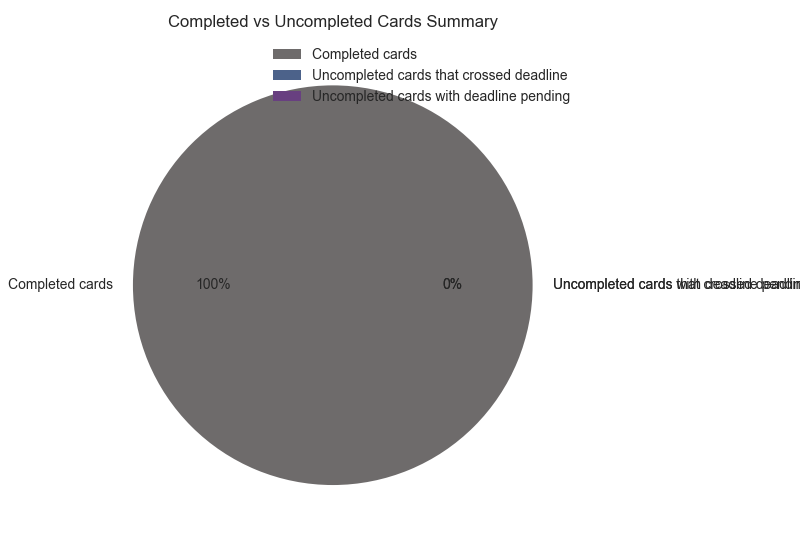
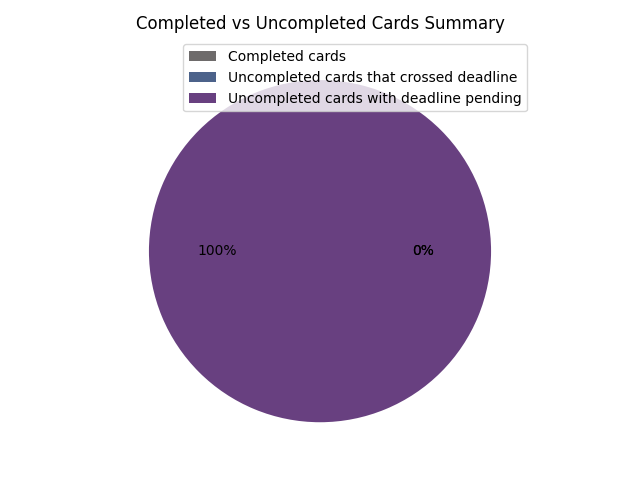
fix add list and add card bugs

diff --git a/templates/summary.html b/templates/summary.html
@@ -37,9 +37,11 @@
                 <img src="../static/images/summary_completed.png" alt="" class="img-thumbnail"  width="100%" height="100%">
             </div>
         </div>
+        {% if dates %}
         <div class="my-3 border" style="width: 60%; height:50%">
             <img src="../static/images/summary_plot.png" alt="" class="img-thumbnail"  width="100%" height="100%">
         </div>
+        {% endif %}
     </div>
 </div>
 

diff --git a/application/controllers.py b/application/controllers.py
@@ -41,7 +41,7 @@ def plot_graph(dates,count):
 
 def plot_piechart_completed(slices,labels):
     colors = ['#6E6B6B','#4C628A','#684080'] # use hex values
-    plt.pie(slices,labels=labels,colors=colors,autopct=lambda p: '{:.0f}%'.format(p))  
+    plt.pie(slices,labels=labels,colors=colors,autopct=lambda p: '{:.0f}%'.format(p),labeldistance=None)  
     # 
     plt.title('Completed Cards Summary')
     plt.legend(loc='best')
@@ -51,15 +51,12 @@ def plot_piechart_completed(slices,labels):
     
 def plot_piechart_completed_uncompleted(slices,labels):
     colors = ['#6E6B6B','#4C628A','#684080'] # use hex values
-    plt.pie(slices,labels=labels,colors=colors,autopct=lambda p: '{:.0f}%'.format(p))
+    plt.pie(slices,labels=labels,colors=colors,autopct=lambda p: '{:.0f}%'.format(p),labeldistance=None)
     # ,autopct=lambda p: '{:.0f}%'.format(p)
     plt.title('Completed vs Uncompleted Cards Summary')
     plt.legend(loc='best')
     plt.tight_layout()
     plt.savefig(os.path.join(basedir,"../static/images/summary_completed_uncompleted.png"))
-
-    
-
 
 @app.route("/summary")
 @login_required 
@@ -102,10 +99,11 @@ def summary():
     # Plot graph Date completed count - save image
     cards = [card for card in list.cards for list in current_user.lists]
     if cards:
-        plt.figure(0)
-        plt.clf()
-        plot_graph(dates,count)
-        plt.figure(1)
+        if dates :
+            plt.figure(0)
+            plt.clf()
+            plot_graph(dates,count)
+            plt.figure(1)
         plt.clf()
         # Pie chart for completed/uncompleted count - save image
         slices1 = [completed_count,uncompleted_deadline_cross_count,uncompleted_deadline_not_cross_count]
@@ -121,7 +119,7 @@ def summary():
         flash(f"You don't have any cards to show summary",'warning')
         return redirect(url_for('board'))
 
-    return render_template("summary.html",user=current_user)
+    return render_template("summary.html",user=current_user, dates=dates)
 
 @app.route("/register", methods=["GET","POST"])
 def register():
@@ -163,9 +161,8 @@ def add_list():
     if len(all_lists) < 5 :
         if form.validate_on_submit():
             list = List(name=form.list_name.data,description=form.description.data,user_id=current_user.id)
-
-            checkdblist = List.query.filter_by(name=form.list_name.data).first()
-            if not  checkdblist:
+            current_user_list = [list.name for list in current_user.lists]
+            if form.list_name.data not in current_user_list:
                 db.session.add(list)
                 db.session.commit()
                 flash(f'List {form.list_name.data} has been created successfully','success')
@@ -193,11 +190,15 @@ def add_card():
             status = True
             date_completed = datetime.now()
         card = Card(title=form.title.data,content=form.content.data,deadline=form.deadline.data,date_completed=date_completed,completed_status=status,list_id=form.choose_list.data)
-        checkdbcard = Card.query.filter_by(title=form.title.data).first()
-        if not checkdbcard:
+        # checkdbcard = Card.query.filter_by(title=form.title.data).first()
+        current_user_card_list = []
+        for list in current_user.lists:
+            for c in list.cards:
+                current_user_card_list.append(c.title)
+        if form.title.data not in current_user_card_list:
             db.session.add(card)
             db.session.commit()
-            flash(f'Card {form.title.data} has been created successfully','success')
+            flash(f'Card "{form.title.data}" has been created successfully','success')
             return redirect(url_for('board'))
         else:
             flash(f'Card named "{form.title.data}" already exist, Please try again with different name','success')
@@ -212,8 +213,8 @@ def edit_list(list_id):
         form.list_name.data = list.name
         form.description.data = list.description
     if form.validate_on_submit():
-        checkdblist = List.query.filter_by(name=form.list_name.data).first()
-        if not  checkdblist:
+        current_user_list = [li.name for li in current_user.lists if li.name != list.name]
+        if form.list_name.data not in current_user_list:
             list.name = form.list_name.data
             list.description = form.description.data
             db.session.commit()
@@ -241,9 +242,12 @@ def edit_card(card_id):
         if complete_status == 'Completed':
             status = True
         #check if that cardname exist in that particular list 
-        checkdbcard = Card.query.filter_by(title=form.title.data)
-        checkdbcard = [c for c in checkdbcard if c!=card]
-        if not checkdbcard:
+        current_user_card_list = []
+        for list in current_user.lists:
+            for c in list.cards:
+                if c!=card:
+                    current_user_card_list.append(c.title)
+        if card.title not in current_user_card_list:
             card.title = form.title.data
             card.content = form.content.data
             card.deadline = form.deadline.data

diff --git a/application/models.py b/application/models.py
@@ -25,7 +25,7 @@ class User(db.Model, UserMixin):
 class List(db.Model, UserMixin):
     __tablename__ = 'list'
     id = db.Column(db.Integer(), primary_key=True)
-    name = db.Column(db.String(), unique=True, nullable=False)
+    name = db.Column(db.String(),nullable=False)
     description = db.Column(db.String())
     date_created = db.Column(db.DateTime(), nullable=False,default=datetime.now())
     # foreign key
@@ -40,7 +40,7 @@ class List(db.Model, UserMixin):
 class Card(db.Model, UserMixin):
     __tablename__ = 'card'
     id = db.Column(db.Integer(), primary_key=True)
-    title = db.Column(db.String(), unique=True, nullable=False)
+    title = db.Column(db.String(),nullable=False)
     content = db.Column(db.String())
     deadline = db.Column(db.DateTime(), nullable=False)
     date_created = db.Column(db.DateTime(), nullable=False,default=datetime.now())
@@ -53,4 +53,4 @@ class Card(db.Model, UserMixin):
     def __repr__(self):
         return f'Card-{self.title}'
 
-# db.create_all()
+db.create_all()

diff --git a/application/api.py b/application/api.py
@@ -1,4 +1,4 @@
-from application.__init__ import app
+from application import app
 from flask_restful import Resource,Api
 
 api = Api(app)
